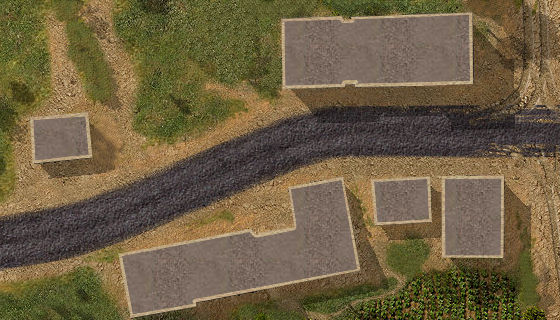
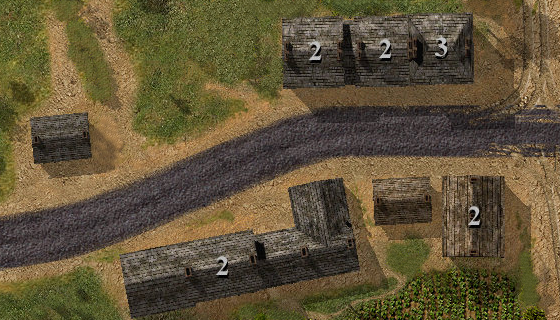
interiors

Changed region(s): [[0.2125, 0.5312, 0.9107, 1.0], [0.4857, 0.0312, 0.85, 0.2812], [0.0304, 0.3438, 0.1821, 0.5312]]

diff --git a/src/scene/main.rs b/src/scene/main.rs
@@ -14,8 +14,8 @@ use crate::behavior::order::Order;
 use crate::behavior::ItemBehavior;
 use crate::config::{
     ANIMATE_EACH, DEFAULT_SELECTED_SQUARE_SIDE, DEFAULT_SELECTED_SQUARE_SIDE_HALF,
-    DISPLAY_OFFSET_BY, DISPLAY_OFFSET_BY_SPEED, MAX_FRAME_I, META_EACH, PHYSICS_EACH,
-    SCENE_ITEMS_CHANGE_ERR_MSG, SPRITE_EACH, TARGET_FPS,
+    DISPLAY_OFFSET_BY, DISPLAY_OFFSET_BY_SPEED, INTERIORS_EACH, MAX_FRAME_I, META_EACH,
+    PHYSICS_EACH, SCENE_ITEMS_CHANGE_ERR_MSG, SPRITE_EACH, TARGET_FPS,
 };
 use crate::map::util::extract_image_from_tileset;
 use crate::map::Map;
@@ -27,7 +27,7 @@ use crate::scene::item::{
     apply_scene_item_modifier, apply_scene_item_modifiers, ItemState, SceneItem, SceneItemModifier,
     SceneItemType,
 };
-use crate::scene::util::update_decor_batches;
+use crate::scene::util::{update_background_batch, update_decor_batches};
 use crate::ui::vertical_menu::vertical_menu_sprite_info;
 use crate::ui::MenuItem;
 use crate::ui::{SceneItemPrepareOrder, UiComponent, UserEvent};
@@ -59,7 +59,8 @@ pub struct MainState {
     hide_decor: bool,
     display_offset: Offset,
     sprite_sheet_batch: graphics::spritebatch::SpriteBatch,
-    map_batch: graphics::spritebatch::SpriteBatch,
+    background_batch: graphics::spritebatch::SpriteBatch,
+    interiors_batch: graphics::spritebatch::SpriteBatch,
     ui_batch: graphics::spritebatch::SpriteBatch,
     debug_terrain_batch: graphics::spritebatch::SpriteBatch,
     debug_terrain_opacity_mesh_builder: MeshBuilder,
@@ -90,11 +91,18 @@ impl MainState {
         let sprite_sheet_image = graphics::Image::new(ctx, "/sprite_sheet.png")?;
         let sprite_sheet_batch = graphics::spritebatch::SpriteBatch::new(sprite_sheet_image);
 
-        let map_image = graphics::Image::new(
+        let background_image = graphics::Image::new(
             ctx,
             &Path::new(&format!("/{}", &map.background_image.source)),
         )?;
-        let map_batch = graphics::spritebatch::SpriteBatch::new(map_image);
+        let mut background_batch = graphics::spritebatch::SpriteBatch::new(background_image);
+        update_background_batch(&mut background_batch);
+
+        let interiors_image = graphics::Image::new(
+            ctx,
+            &Path::new(&format!("/{}", &map.interiors_image.source)),
+        )?;
+        let interiors_batch = graphics::spritebatch::SpriteBatch::new(interiors_image);
 
         let ui_image = graphics::Image::new(ctx, "/ui.png")?;
         let ui_batch = graphics::spritebatch::SpriteBatch::new(ui_image);
@@ -144,7 +152,8 @@ impl MainState {
             hide_decor: false,
             display_offset: Offset::new(0.0, 0.0),
             sprite_sheet_batch,
-            map_batch,
+            background_batch,
+            interiors_batch,
             ui_batch,
             debug_terrain_batch,
             debug_terrain_opacity_mesh_builder,
@@ -525,12 +534,34 @@ impl MainState {
         Ok(())
     }
 
-    fn generate_map_sprites(&mut self) -> GameResult {
-        self.map_batch.add(
-            graphics::DrawParam::new()
-                .src(graphics::Rect::new(0.0, 0.0, 1.0, 1.0))
-                .dest(ScenePoint::new(0.0, 0.0)),
-        );
+    fn update_interior_sprites(&mut self) -> GameResult {
+        self.interiors_batch.clear();
+        for interior in self.map.interiors_objects.objects.iter() {
+            let start_x = interior.x;
+            let start_y = interior.y;
+            let end_x = start_x + interior.width;
+            let end_y = start_y + interior.height;
+
+            for scene_item in self.scene_items.iter() {
+                if scene_item.position.x >= start_x
+                    && scene_item.position.x <= end_x
+                    && scene_item.position.y >= start_y
+                    && scene_item.position.y <= end_y
+                {
+                    self.interiors_batch.add(
+                        graphics::DrawParam::new()
+                            .src(graphics::Rect::new(
+                                start_x / self.map.interiors_image.width as f32,
+                                start_y / self.map.interiors_image.height as f32,
+                                interior.width / self.map.interiors_image.width as f32,
+                                interior.height / self.map.interiors_image.height as f32,
+                            ))
+                            .dest(ScenePoint::new(start_x, start_y)),
+                    );
+                    continue;
+                }
+            }
+        }
 
         Ok(())
     }
@@ -672,6 +703,7 @@ impl event::EventHandler for MainState {
             let tick_animate = self.frame_i % ANIMATE_EACH == 0;
             let tick_physics = self.frame_i % PHYSICS_EACH == 0;
             let tick_meta = self.frame_i % META_EACH == 0;
+            let tick_interiors = self.frame_i % INTERIORS_EACH == 0;
 
             // Apply moves, explosions, etc
             if tick_physics {
@@ -693,6 +725,11 @@ impl event::EventHandler for MainState {
                 self.tick_sprites();
             }
 
+            // Compute interiors sprites
+            if tick_interiors {
+                self.update_interior_sprites()?;
+            }
+
             // Increment frame counter
             self.frame_i += 1;
             if self.frame_i >= MAX_FRAME_I {
@@ -712,7 +749,6 @@ impl event::EventHandler for MainState {
 
         self.generate_scene_item_sprites()?;
         self.generate_scene_item_menu_sprites()?;
-        self.generate_map_sprites()?;
 
         scene_mesh_builder = self.update_mesh_builder_with_debug(scene_mesh_builder)?;
         scene_mesh_builder = self.update_mesh_builder_with_selected_items(scene_mesh_builder)?;
@@ -725,7 +761,10 @@ impl event::EventHandler for MainState {
         ));
 
         // Draw map background
-        graphics::draw(ctx, &self.map_batch, window_draw_param)?;
+        graphics::draw(ctx, &self.background_batch, window_draw_param)?;
+
+        // Draw interiors
+        graphics::draw(ctx, &self.interiors_batch, window_draw_param)?;
 
         // Draw terrain debug
         if self.debug_terrain == DebugTerrain::Tiles {
@@ -755,7 +794,6 @@ impl event::EventHandler for MainState {
         graphics::draw(ctx, &self.ui_batch, window_draw_param)?;
 
         self.sprite_sheet_batch.clear();
-        self.map_batch.clear();
         self.ui_batch.clear();
 
         graphics::present(ctx)?;

diff --git a/src/map/mod.rs b/src/map/mod.rs
@@ -7,14 +7,14 @@ use ggez::GameError;
 use ggez::GameResult;
 use tiled::{
     parse_with_path, Image as TiledImage, Image, ImageLayer, Layer, LayerData, Map as TiledMap,
-    Orientation, PropertyValue, Tileset,
+    ObjectGroup, Orientation, PropertyValue, Tileset,
 };
 
 use crate::map::decor::{Decor, DecorTile};
 use crate::map::terrain::{Terrain, TerrainTile};
 use crate::map::util::{
     extract_gids, extract_image_from_image_layer, extract_image_from_tileset, extract_layer,
-    extract_tileset, extract_tileset_images, extract_tilesets_containing_gids,
+    extract_objects, extract_tileset, extract_tileset_images, extract_tilesets_containing_gids,
     get_tileset_i_for_gid,
 };
 
@@ -25,6 +25,8 @@ pub mod util;
 pub struct Map {
     pub tiled_map: TiledMap,
     pub background_image: TiledImage,
+    pub interiors_objects: ObjectGroup,
+    pub interiors_image: TiledImage,
     pub terrain: Terrain,
     pub decor: Decor,
 }
@@ -49,10 +51,10 @@ impl Map {
             ));
         }
 
-        // Background and roofs
+        // Background and interiors
         let background_image = extract_image_from_image_layer(&tiled_map, "background")?;
-        let roofs_image = extract_image_from_image_layer(&tiled_map, "roofs")?;
-        // let roofs_layer = ...
+        let interiors_objects = extract_objects(&tiled_map, "interiors")?;
+        let interiors_image = extract_image_from_image_layer(&tiled_map, "interiors")?;
 
         // Terrain
         let terrain_tileset: Tileset = extract_tileset(&tiled_map, "terrain")?;
@@ -141,6 +143,8 @@ impl Map {
         GameResult::Ok(Map {
             tiled_map: tiled_map.clone(),
             background_image: background_image.clone(),
+            interiors_objects,
+            interiors_image,
             terrain,
             decor,
         })

diff --git a/src/map/util.rs b/src/map/util.rs
@@ -1,7 +1,9 @@
 use core::option::Option::{None, Some};
 use ggez::error::{GameError, GameResult};
 use ggez::GameError::GamepadError;
-use tiled::{Image as TiledImage, Layer, LayerData, Map as TiledMap, Tile as TiledTile, Tileset};
+use tiled::{
+    Image as TiledImage, Layer, LayerData, Map as TiledMap, ObjectGroup, Tile as TiledTile, Tileset,
+};
 
 pub fn extract_image_from_image_layer(
     tiled_map: &TiledMap,
@@ -20,7 +22,7 @@ pub fn extract_image_from_image_layer(
     }
 
     return GameResult::Err(GameError::ResourceLoadError(format!(
-        "Image layer {} not found in map ",
+        "Image layer {} not found in map",
         layer_name
     )));
 }
@@ -47,11 +49,30 @@ pub fn extract_tileset(tiled_map: &TiledMap, tileset_name: &str) -> GameResult<T
     {
         None => {
             return GameResult::Err(GameError::ResourceLoadError(format!(
-                "No tileset {} found in map ",
+                "No tileset {} found in map",
                 tileset_name
             )))
         }
         Some(tileset) => GameResult::Ok(tileset.clone()),
+    }
+}
+
+pub fn extract_objects(tiled_map: &TiledMap, objects_name: &str) -> GameResult<ObjectGroup> {
+    match tiled_map
+        .object_groups
+        .clone()
+        .into_iter()
+        .filter(|g| g.name == objects_name)
+        .collect::<Vec<ObjectGroup>>()
+        .first()
+    {
+        None => {
+            return GameResult::Err(GameError::ResourceLoadError(format!(
+                "No objects {} found in map",
+                objects_name
+            )))
+        }
+        Some(object_groups) => GameResult::Ok(object_groups.clone()),
     }
 }
 

diff --git a/src/config.rs b/src/config.rs
@@ -4,10 +4,12 @@ pub const TARGET_FPS: u32 = 60;
 pub const META_EACH: u32 = 20;
 // execute physics code each 10 frames
 pub const PHYSICS_EACH: u32 = 10;
-// execute animate code each 30 frames
+// execute animate code each 60 frames
 pub const ANIMATE_EACH: u32 = 60;
-// change sprite animation tile 30 frames
+// change sprite animation tile each 10 frames
 pub const SPRITE_EACH: u32 = 10;
+// compute interior sprites each 60 frames
+pub const INTERIORS_EACH: u32 = 60;
 // max of frame_i used to calculate ticks
 pub const MAX_FRAME_I: u32 = 4294967295;
 // pixel offset by tick when player move screen display

diff --git a/src/scene/util.rs b/src/scene/util.rs
@@ -89,3 +89,11 @@ pub fn update_decor_batches(
         );
     }
 }
+
+pub fn update_background_batch(background_batch: &mut graphics::spritebatch::SpriteBatch) {
+    background_batch.add(
+        graphics::DrawParam::new()
+            .src(graphics::Rect::new(0.0, 0.0, 1.0, 1.0))
+            .dest(ScenePoint::new(0.0, 0.0)),
+    );
+}
